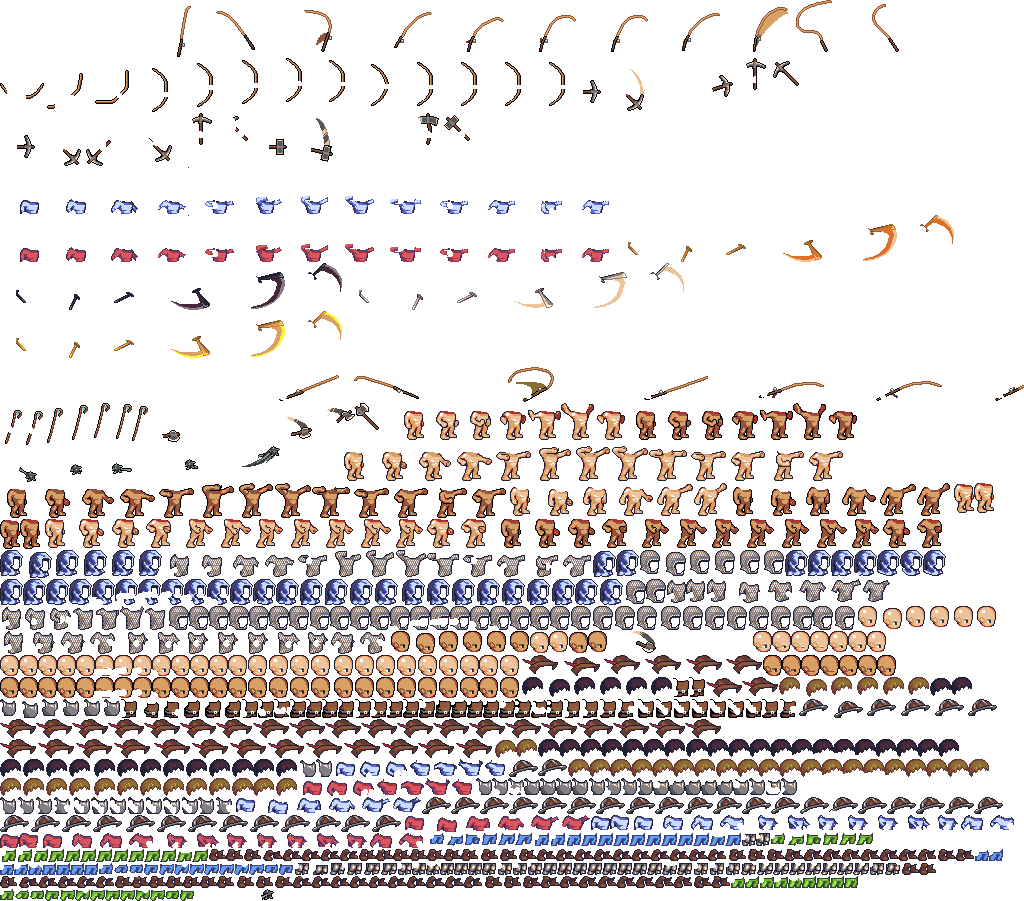
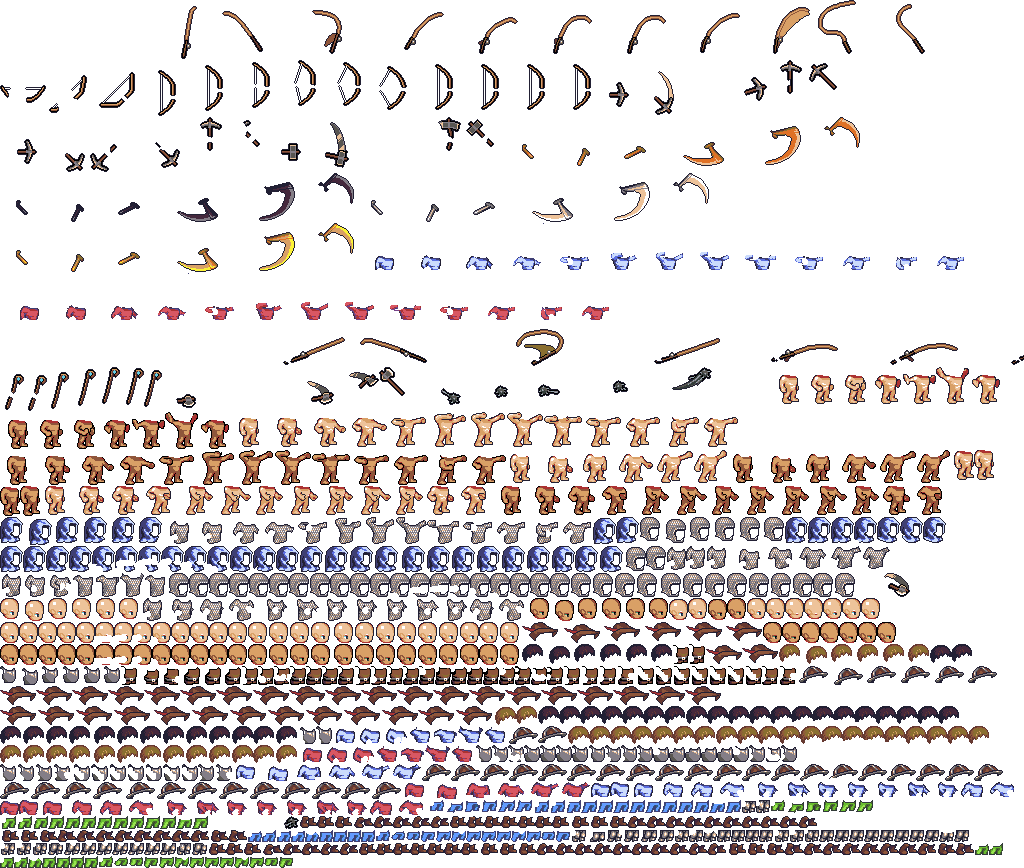
Phase 3 step 6 fix: combat scene enemy and weapon contrast
Fight actions draw their foe on the right (Ninja Adventure Actor/Monster, left-facing 4-frame idle, 15 fights mapped, slime fallback; foes.png 4 KB). Calmer dark combat backdrop, and a 1px dark outline on every weapon and tool layer.

Claude-Session: https://claude.ai/code/session_016aaUfwGMLmcEwrxDPBDi5y

diff --git a/client/src/scene/SceneStrip.svelte b/client/src/scene/SceneStrip.svelte
@@ -7,7 +7,7 @@
   import { DATA } from '@guildwright/engine';
   import { engine } from '../engine/store.svelte';
   import { reducedMotion } from '../settings.svelte';
-  import { loadSceneArt, MAN, BD, SCENE_H, FEET_Y, figure, backdropRow, type Equipped, type Gear, type Look } from './sprites';
+  import { loadSceneArt, MAN, BD, SCENE_H, FEET_Y, figure, backdropRow, foeRow, FOES, type Equipped, type Gear, type Look } from './sprites';
 
   const SCALE = 3;
   const H = SCENE_H;
@@ -33,7 +33,8 @@
     const skill: string | null = act?.skill ?? null;
     const hero = figure(skill, !!act, eq, false);
     const crew = s?.active?.jobId ? figure(skill, true, eq, true) : null;
-    return { hero, crew, label: act ? `Working: ${act.name}` : 'Idle in the workshop yard' };
+    const foe = foeRow(act?.id ?? null, act?.kind ?? null);
+    return { hero, crew, foe, label: act ? `Working: ${act.name}` : 'Idle in the workshop yard' };
   });
 
   $effect(() => {
@@ -73,10 +74,11 @@
       if (document.hidden || !art || now - lastTick < 33) return;   // <= 30 fps, nothing while hidden
       lastTick = now;
       const still = reducedMotion();
-      const { hero, crew } = scene;
+      const { hero, crew, foe } = scene;
       const fh = frameOf(hero, now, 0, still);
       const fc = crew ? frameOf(crew, now, 280, still) : 0;
-      const sig = `${W}|${hero.key}|${fh}|${crew?.key ?? ''}|${fc}`;
+      const ff = foe == null ? 0 : still ? 0 : Math.floor(now / 1000 * 5) % FOES.frames;
+      const sig = `${W}|${hero.key}|${fh}|${crew?.key ?? ''}|${fc}|${foe}|${ff}`;
       if (sig === lastSig) return;
       lastSig = sig;
       ctx.imageSmoothingEnabled = false;
@@ -85,6 +87,11 @@
       ctx.drawImage(art.backdrops, bx, backdropRow(hero.backdrop) * H, W, H, 0, 0, W, H);
       const hx = crew ? Math.floor(W * 0.62) : Math.floor(W / 2);
       if (crew) drawFigure(ctx, art.atlas, crew, hx - 30, fc);
+      if (foe != null) {   // the current foe stands to the right, facing the hero
+        const fx = hx + 34;
+        ctx.fillStyle = 'rgba(34,32,52,0.35)'; ctx.fillRect(fx - 6, FEET_Y, 12, 1);
+        ctx.drawImage(art.foes, ff * FOES.size, foe * FOES.size, FOES.size, FOES.size, fx - 8, FEET_Y - FOES.size + 1, FOES.size, FOES.size);
+      }
       drawFigure(ctx, art.atlas, hero, hx, fh);
     };
     raf = requestAnimationFrame(tick);

diff --git a/client/src/scene/sprites.ts b/client/src/scene/sprites.ts
@@ -4,6 +4,8 @@ import heroUrl from './art/hero.png?url';
 import heroMan from './art/hero.json';
 import backdropUrl from './art/backdrops.png?url';
 import backdropMan from './art/backdrops.json';
+import foesUrl from './art/foes.png?url';
+import foesMan from './art/foes.json';
 
 export type AnimName = 'idle' | 'slash' | 'cast' | 'shoot' | 'fish';
 interface LayerRect { x: number; y: number; w: number; h: number; ox: number; oy: number }
@@ -19,8 +21,12 @@ export const FEET_Y = SCENE_H - 6;
 function load(url: string): Promise<HTMLImageElement> {
   return new Promise((res, rej) => { const i = new Image(); i.onload = () => res(i); i.onerror = rej; i.src = url; });
 }
-let pending: Promise<{ atlas: HTMLImageElement; backdrops: HTMLImageElement }> | null = null;
-export function loadSceneArt() { return (pending ??= Promise.all([load(heroUrl), load(backdropUrl)]).then(([atlas, backdrops]) => ({ atlas, backdrops }))); }
+let pending: Promise<{ atlas: HTMLImageElement; backdrops: HTMLImageElement; foes: HTMLImageElement }> | null = null;
+export function loadSceneArt() { return (pending ??= Promise.all([load(heroUrl), load(backdropUrl), load(foesUrl)]).then(([atlas, backdrops, foes]) => ({ atlas, backdrops, foes }))); }
+
+/** Foe sprite row for a combat action (16px, 4 idle frames, facing left); null when the action is not a fight. */
+export const FOES = foesMan as { map: Record<string, number>; default: number; frames: number; size: number };
+export const foeRow = (actionId: string | null, kind: string | null): number | null => (kind === 'combat' ? (actionId && FOES.map[actionId]) ?? FOES.default : null);
 
 // ---------------------------------------------------------------- actions -> backdrop / animation
 const BACKDROP_BY_SKILL: Record<string, string> = {

diff --git a/scripts/art/build-foes.py b/scripts/art/build-foes.py
@@ -1,0 +1,29 @@
+#!/usr/bin/env python3
+"""Fight-scene foes: one left-facing 4-frame idle row (16x16) per Ninja Adventure Actor/Monster sprite (CC0), DB32.
+usage: build-foes.py <Ninja Adventure - Asset Pack dir> <out dir>"""
+import sys, os, json
+from PIL import Image
+sys.path.insert(0, os.path.dirname(__file__))
+from scenelib import remap_db32
+NIN, OUT = sys.argv[1], sys.argv[2]
+MON = os.path.join(NIN, 'Actor', 'Monster')
+# engine fight action id -> (Ninja Monster folder, sheet file)
+FOES = {
+  'fight_wolfwood': ('Beast', 'Beast'), 'fight_ridge': ('Beast2', 'Beast2'), 'fight_hollow': ('SpiderRed', 'SpriteSheet'),
+  'fight_bearclaw': ('Bear', 'SpriteSheet'), 'fight_drakemire': ('Dragon', 'SpriteSheet'),
+  'fight_quarry_road': ('Mouse', 'SpriteSheet'), 'fight_palisade': ('Racoon', 'SpriteSheet'), 'fight_ironhide': ('Panda', 'SpriteSheet'),
+  'fight_golems': ('Cyclope', 'SpriteSheet'), 'fight_roost': ('DragonYellow', 'SpriteSheet'),
+  'fight_shrine': ('Spirit', 'SpriteSheet'), 'fight_marsh': ('LanternGreen', 'SpriteSheet'), 'fight_spire': ('Spirit2', 'SpriteSheet'),
+  'fight_chapel': ('KappaGreen', 'SpriteSheet'), 'fight_barrow': ('Skull', 'SpriteSheet'),
+}
+DEFAULT = ('Slime', 'Slime')     # any other foe
+rows = list(dict.fromkeys(list(FOES.values()) + [DEFAULT]))
+atlas = Image.new('RGBA', (64, 16 * len(rows)), (0, 0, 0, 0))
+for r, (d, f) in enumerate(rows):
+    im = Image.open(os.path.join(MON, d, f + '.png')).convert('RGBA')
+    for k in range(4): atlas.alpha_composite(im.crop((32, k * 16, 48, k * 16 + 16)), (k * 16, r * 16))   # column 2 = facing left
+atlas = remap_db32(atlas)
+os.makedirs(OUT, exist_ok=True)
+atlas.save(os.path.join(OUT, 'foes.png'), optimize=True)
+json.dump(dict(map={a: rows.index(v) for a, v in FOES.items()}, default=rows.index(DEFAULT), frames=4, size=16), open(os.path.join(OUT, 'foes.json'), 'w'))
+print('foes', atlas.size, os.path.getsize(os.path.join(OUT, 'foes.png')) // 1024, 'KB')

diff --git a/scripts/art/build-hero.py b/scripts/art/build-hero.py
@@ -7,6 +7,7 @@ import sys, os, json
 import numpy as np
 from PIL import Image
 sys.path.insert(0, os.path.dirname(__file__))
+from remap import outline_image
 from scenelib import remap_db32, ramp_tint, mult_tint, shelf_pack
 
 SRC, OUT = sys.argv[1], sys.argv[2]
@@ -71,6 +72,8 @@ for t in ('pickaxe', 'axe', 'hammer'):
     for part in ('bg', 'fg'):
         LAYERS[f'{t}_{part}'] = ({'slash': P(f'tools/{t}/{part}.png')}, None)
 
+OUTLINED = {'sword', 'mace', 'staff', 'bow', 'rod', 'pickaxe', 'axe', 'hammer'}   # 1px dark outline so held tools read on any backdrop
+
 def row_frames(path, cols, row=EAST):
     im = Image.open(path).convert('RGBA')
     fs = im.width // cols
@@ -101,9 +104,11 @@ for key, (paths, tint) in LAYERS.items():
         frames = apply_tint(frames, tint)
         boxes = [b for b in (f.getchannel('A').point(lambda v: 255 if v >= 128 else 0).getbbox() for f in frames) if b]
         if not boxes: continue
+        outl = key.split('_')[0] in OUTLINED
         x0 = min(b[0] for b in boxes); y0 = min(b[1] for b in boxes); x1 = max(b[2] for b in boxes); y1 = max(b[3] for b in boxes)
+        if outl: x0, y0, x1, y1 = max(0, x0 - 1), max(0, y0 - 1), min(CANVAS, x1 + 1), min(CANVAS, y1 + 1)   # room for the outline
         w, h = x1 - x0, y1 - y0
-        entries[(key, anim)] = dict(frames=[remap_db32(f.crop((x0, y0, x1, y1))) for f in frames], w=w, h=h, ox=x0 - 96, oy=y0 - FEET)
+        entries[(key, anim)] = dict(frames=[(outline_image if outl else (lambda im: im))(remap_db32(f.crop((x0, y0, x1, y1)))) for f in frames], w=w, h=h, ox=x0 - 96, oy=y0 - FEET)
         rects.append(((key, anim), w * cols, h))
 pos, H = shelf_pack(rects, 1024)
 atlas = Image.new('RGBA', (1024, H), (0, 0, 0, 0))

diff --git a/scripts/art/build-backdrops.py b/scripts/art/build-backdrops.py
@@ -100,9 +100,11 @@ def alchemy():
     put(im, tile(HOUSE, 24, 15), 70, 10)
     return im
 def combat():
-    im = new(); sky(im, ('#5b6ee1', '#639bff', '#9badb7')); rep(im, tile(FLOOR, 14, 16), 0, GY, W, H)
-    for i, cx in enumerate((10, 50, 90, 130)): prop(im, tile(NAT, 4, 0, 2, 2), cx, GY - 2 + (i % 2) * 3)
-    prop(im, tile(NAT, 13, 5, 3, 3), 120, GY + 10); prop(im, tile(NAT, 13, 5, 3, 3) , 16, GY + 14)
+    # calm, dark dusk so pale weapons and armour read; only sparse props at the edges, nothing behind the hero
+    im = new(); sky(im, ('#222034', '#3f3f74', '#5b6ee1')); rep(im, tile(FLOOR, 14, 16), 0, GY, W, H)
+    from scenelib import mult_tint
+    g = new(); rep(g, tile(FLOOR, 14, 16), 0, GY, W, H); put(im, mult_tint(g, (0.55, 0.55, 0.65)), 0, 0)
+    for cx in (10, 140): prop(im, mult_tint(tile(NAT, 4, 0, 2, 2), (0.5, 0.5, 0.6)), cx, GY - 2)
     return im
 def yard():
     im = new(); sky(im); grass(im, seed=7)
